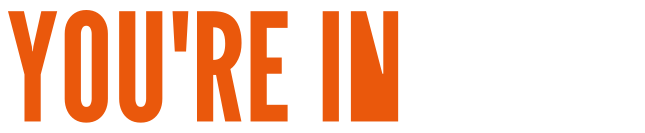
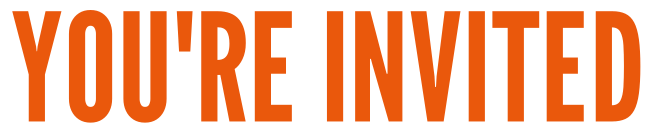
fix: render full 'YOU'RE INVITED' headline (canvas) — resvg path bug truncated it

diff --git a/src/lib/email/invite.ts b/src/lib/email/invite.ts
@@ -97,7 +97,7 @@ function inviteHtml(name: string, link: string): string {
       @media only screen and (min-width:601px) {
         .pad { padding-left:40px !important; padding-right:40px !important; }
         .hero { padding:18px 18px 0 !important; }
-        .headline { max-width:340px !important; }
+        .headline { width:340px !important; }
       }
     </style>
   </head>
@@ -115,7 +115,7 @@ function inviteHtml(name: string, link: string): string {
           <!-- eyebrow + headline -->
           <tr><td class="pad" style="padding:28px 26px 0;">
             <div style="font-size:11px;font-weight:700;letter-spacing:0.2em;color:#ea580c;text-transform:uppercase;">CPE Hardhatting Ceremony 2026</div>
-            <img src="cid:headline" class="headline" alt="You're Invited" width="300" style="display:block;margin:12px 0 0;width:100%;max-width:300px;height:auto;border:0;outline:none;text-decoration:none;" />
+            <img src="cid:headline" class="headline" alt="You're Invited" width="300" height="62" style="display:block;margin:12px 0 0;width:300px;max-width:100%;height:auto;border:0;outline:none;text-decoration:none;" />
           </td></tr>
 
           <!-- body -->